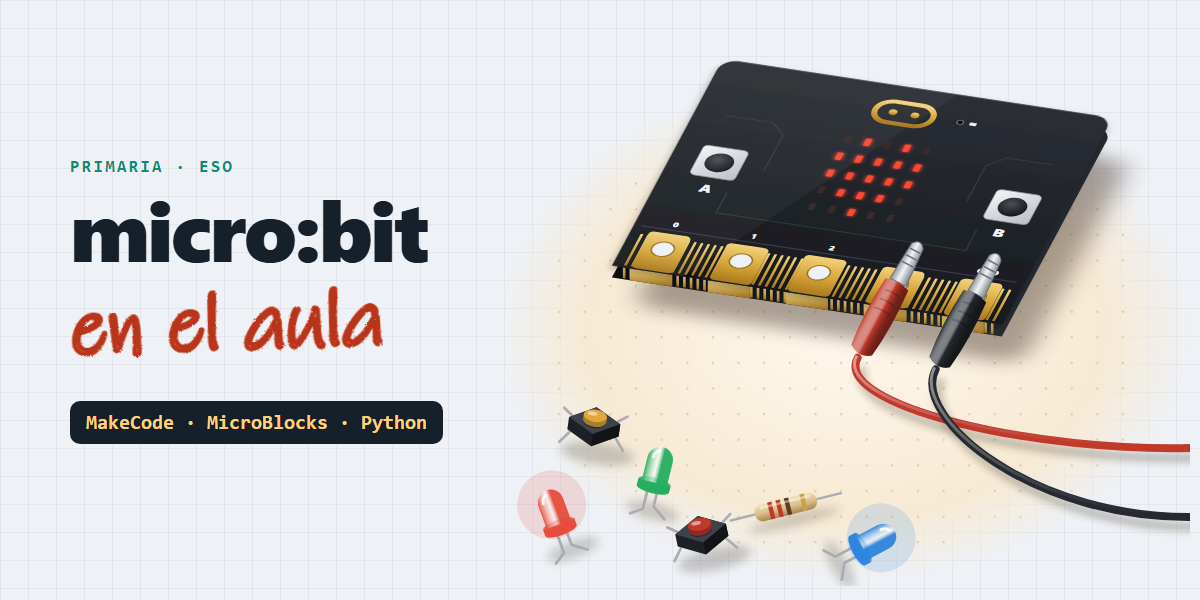
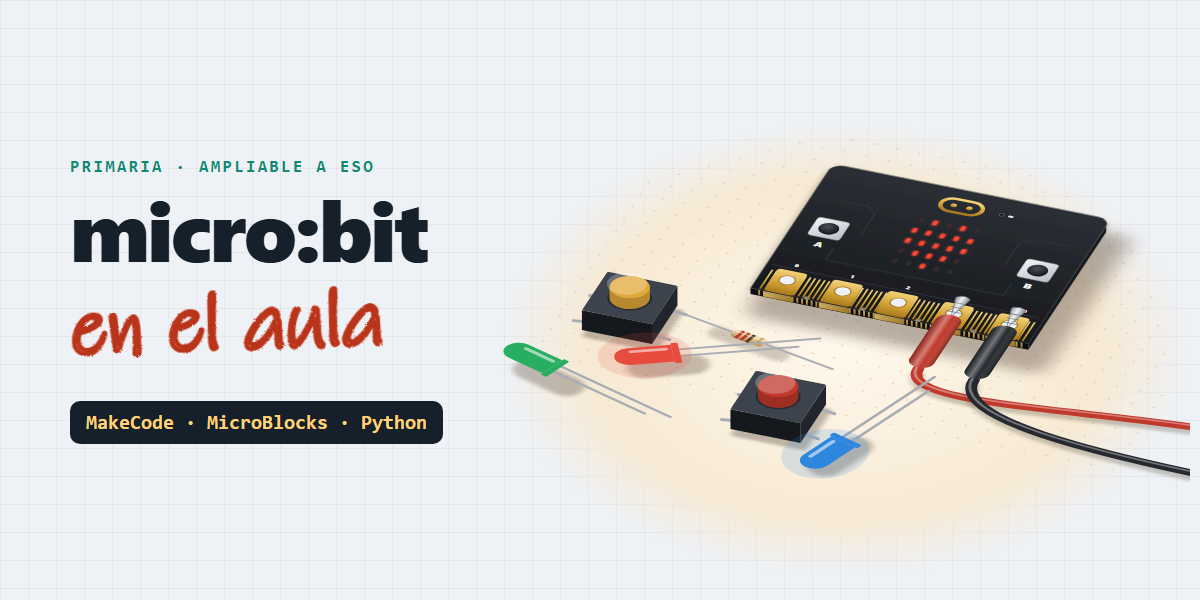
Nueva imagen de la tarjeta de micro:bit en el aula

Changed region(s): [[0.4008, 0.09, 1.0, 0.99], [0.1542, 0.27, 0.3083, 0.3]]

diff --git a/index.html b/index.html
@@ -179,7 +179,7 @@ footer .envoltura{display:flex;justify-content:space-between;gap:16px;flex-wrap:
 </div>
 <div class="rejilla">
 <article class="tarjeta">
-<div class="imagen" style="background-image:url('microbit-en-el-aula.png')"><span class="nivel">Primaria · ESO</span></div>
+<div class="imagen" style="background-image:url('microbit-en-el-aula.png?v=2')"><span class="nivel">Primaria · ESO</span></div>
 <div class="cuerpo">
 <h3>micro:bit en el aula</h3>
 <p>Aprende a programar la micro:bit V2 con MakeCode, MicroBlocks y Python: la placa parte a parte, 30 prácticas progresivas, modo experto con juegos, cables de cocodrilo y sensores, talleres con Cutebot, Maqueen y kits de ELECFREAKS, efemérides y modo proyección.</p>
